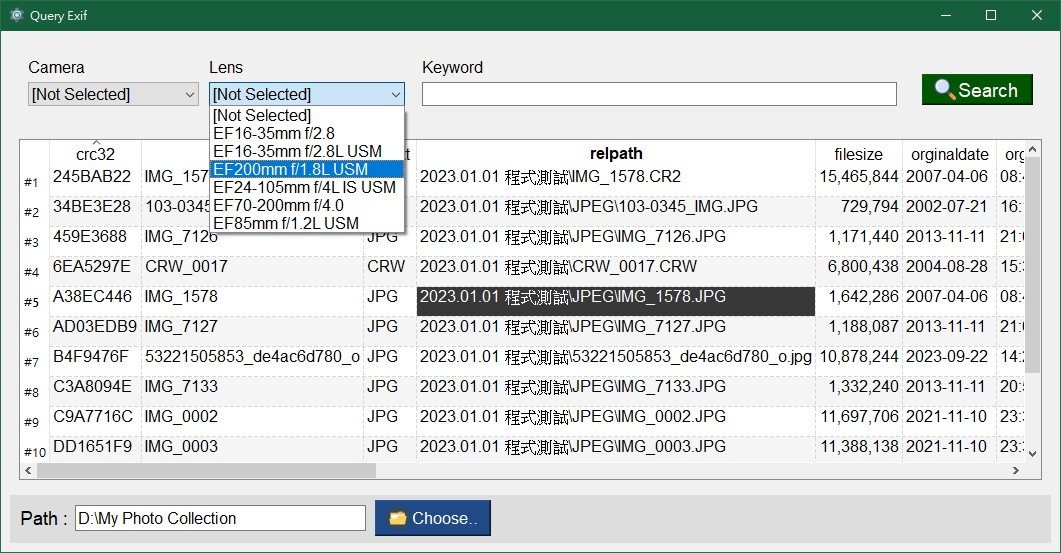
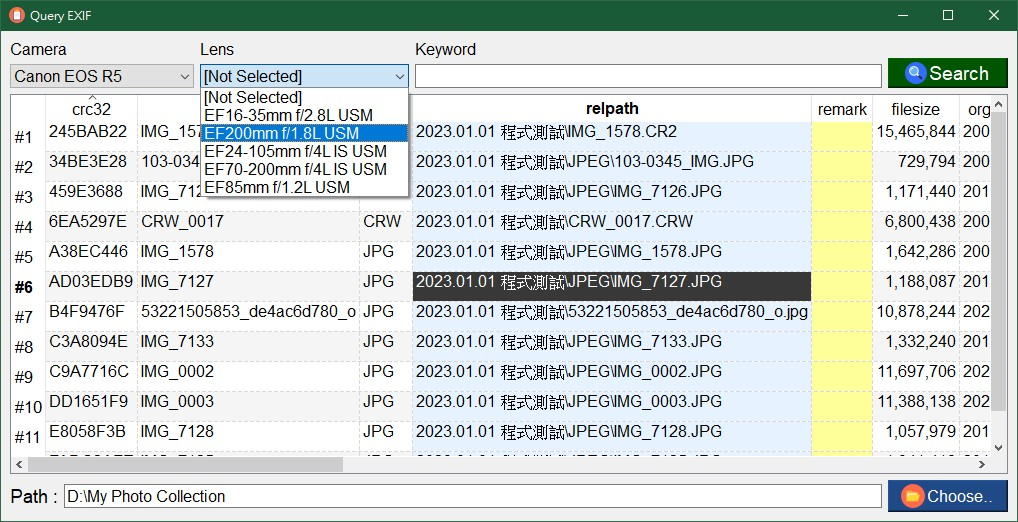
Query UI changed.

diff --git a/UIQuery.py b/UIQuery.py
@@ -14,88 +14,87 @@ from PyQt5 import QtCore, QtGui, QtWidgets
 class Ui_MainWindow(object):
     def setupUi(self, MainWindow):
         MainWindow.setObjectName("MainWindow")
-        MainWindow.resize(654, 262)
-        font = QtGui.QFont()
-        font.setFamily("Arial")
-        font.setPointSize(10)
-        MainWindow.setFont(font)
+        MainWindow.resize(616, 228)
+        MainWindow.setMinimumSize(QtCore.QSize(616, 228))
         icon = QtGui.QIcon()
         icon.addPixmap(QtGui.QPixmap(":/icon/icon/icon-clipboard.png"), QtGui.QIcon.Normal, QtGui.QIcon.Off)
         MainWindow.setWindowIcon(icon)
         self.centralwidget = QtWidgets.QWidget(MainWindow)
         self.centralwidget.setObjectName("centralwidget")
-        self.verticalLayout = QtWidgets.QVBoxLayout(self.centralwidget)
+        self.gridLayout = QtWidgets.QGridLayout(self.centralwidget)
+        self.gridLayout.setObjectName("gridLayout")
+        self.verticalLayout_5 = QtWidgets.QVBoxLayout()
+        self.verticalLayout_5.setObjectName("verticalLayout_5")
+        self.horizontalLayout = QtWidgets.QHBoxLayout()
+        self.horizontalLayout.setObjectName("horizontalLayout")
+        self.verticalLayout = QtWidgets.QVBoxLayout()
         self.verticalLayout.setObjectName("verticalLayout")
-        self.aTop = QtWidgets.QWidget(self.centralwidget)
-        self.aTop.setMinimumSize(QtCore.QSize(0, 0))
-        self.aTop.setMaximumSize(QtCore.QSize(16777215, 84))
+        self.lb_txt1 = QtWidgets.QLabel(self.centralwidget)
         font = QtGui.QFont()
         font.setFamily("Arial")
-        font.setPointSize(10)
-        self.aTop.setFont(font)
-        self.aTop.setObjectName("aTop")
-        self.horizontalLayout = QtWidgets.QHBoxLayout(self.aTop)
-        self.horizontalLayout.setObjectName("horizontalLayout")
-        self.top_1 = QtWidgets.QWidget(self.aTop)
-        self.top_1.setMinimumSize(QtCore.QSize(388, 0))
-        self.top_1.setMaximumSize(QtCore.QSize(388, 16777215))
-        self.top_1.setObjectName("top_1")
-        self.cb_camera = QtWidgets.QComboBox(self.top_1)
-        self.cb_camera.setGeometry(QtCore.QRect(9, 33, 171, 24))
+        font.setPointSize(12)
+        self.lb_txt1.setFont(font)
+        self.lb_txt1.setObjectName("lb_txt1")
+        self.verticalLayout.addWidget(self.lb_txt1)
+        self.cb_camera = QtWidgets.QComboBox(self.centralwidget)
+        self.cb_camera.setMinimumSize(QtCore.QSize(175, 0))
         font = QtGui.QFont()
         font.setFamily("Arial")
         font.setPointSize(12)
         self.cb_camera.setFont(font)
         self.cb_camera.setCursor(QtGui.QCursor(QtCore.Qt.PointingHandCursor))
         self.cb_camera.setObjectName("cb_camera")
-        self.lb_txt2 = QtWidgets.QLabel(self.top_1)
-        self.lb_txt2.setGeometry(QtCore.QRect(190, 9, 34, 18))
+        self.verticalLayout.addWidget(self.cb_camera)
+        self.horizontalLayout.addLayout(self.verticalLayout)
+        self.verticalLayout_2 = QtWidgets.QVBoxLayout()
+        self.verticalLayout_2.setObjectName("verticalLayout_2")
+        self.lb_txt2 = QtWidgets.QLabel(self.centralwidget)
         font = QtGui.QFont()
         font.setFamily("Arial")
         font.setPointSize(12)
         self.lb_txt2.setFont(font)
         self.lb_txt2.setObjectName("lb_txt2")
-        self.lb_txt1 = QtWidgets.QLabel(self.top_1)
-        self.lb_txt1.setGeometry(QtCore.QRect(9, 9, 57, 18))
-        font = QtGui.QFont()
-        font.setFamily("Arial")
-        font.setPointSize(12)
-        self.lb_txt1.setFont(font)
-        self.lb_txt1.setObjectName("lb_txt1")
-        self.cb_lens = QtWidgets.QComboBox(self.top_1)
-        self.cb_lens.setGeometry(QtCore.QRect(190, 33, 196, 24))
+        self.verticalLayout_2.addWidget(self.lb_txt2)
+        self.cb_lens = QtWidgets.QComboBox(self.centralwidget)
+        self.cb_lens.setMinimumSize(QtCore.QSize(200, 0))
         font = QtGui.QFont()
         font.setFamily("Arial")
         font.setPointSize(12)
         self.cb_lens.setFont(font)
         self.cb_lens.setCursor(QtGui.QCursor(QtCore.Qt.PointingHandCursor))
         self.cb_lens.setObjectName("cb_lens")
-        self.horizontalLayout.addWidget(self.top_1)
-        self.top_2 = QtWidgets.QWidget(self.aTop)
-        self.top_2.setObjectName("top_2")
-        self.verticalLayout_2 = QtWidgets.QVBoxLayout(self.top_2)
-        self.verticalLayout_2.setObjectName("verticalLayout_2")
-        self.lb_txt3 = QtWidgets.QLabel(self.top_2)
+        self.verticalLayout_2.addWidget(self.cb_lens)
+        self.horizontalLayout.addLayout(self.verticalLayout_2)
+        self.verticalLayout_3 = QtWidgets.QVBoxLayout()
+        self.verticalLayout_3.setObjectName("verticalLayout_3")
+        self.lb_txt3 = QtWidgets.QLabel(self.centralwidget)
         font = QtGui.QFont()
         font.setFamily("Arial")
         font.setPointSize(12)
         self.lb_txt3.setFont(font)
         self.lb_txt3.setObjectName("lb_txt3")
-        self.verticalLayout_2.addWidget(self.lb_txt3)
-        self.tb_Keyword = QtWidgets.QLineEdit(self.top_2)
+        self.verticalLayout_3.addWidget(self.lb_txt3)
+        self.tb_Keyword = QtWidgets.QLineEdit(self.centralwidget)
         font = QtGui.QFont()
         font.setFamily("Arial")
         font.setPointSize(12)
         self.tb_Keyword.setFont(font)
         self.tb_Keyword.setObjectName("tb_Keyword")
-        self.verticalLayout_2.addWidget(self.tb_Keyword)
-        self.horizontalLayout.addWidget(self.top_2)
-        self.top_3 = QtWidgets.QWidget(self.aTop)
-        self.top_3.setMinimumSize(QtCore.QSize(130, 0))
-        self.top_3.setMaximumSize(QtCore.QSize(130, 16777215))
-        self.top_3.setObjectName("top_3")
-        self.btnQuery = QtWidgets.QPushButton(self.top_3)
-        self.btnQuery.setGeometry(QtCore.QRect(10, 25, 111, 31))
+        self.verticalLayout_3.addWidget(self.tb_Keyword)
+        self.horizontalLayout.addLayout(self.verticalLayout_3)
+        self.verticalLayout_4 = QtWidgets.QVBoxLayout()
+        self.verticalLayout_4.setObjectName("verticalLayout_4")
+        self.label = QtWidgets.QLabel(self.centralwidget)
+        self.label.setMinimumSize(QtCore.QSize(0, 10))
+        font = QtGui.QFont()
+        font.setFamily("Arial")
+        font.setPointSize(6)
+        self.label.setFont(font)
+        self.label.setText("")
+        self.label.setObjectName("label")
+        self.verticalLayout_4.addWidget(self.label)
+        self.btnQuery = QtWidgets.QPushButton(self.centralwidget)
+        self.btnQuery.setMinimumSize(QtCore.QSize(120, 0))
         font = QtGui.QFont()
         font.setFamily("Arial")
         font.setPointSize(14)
@@ -108,14 +107,10 @@ class Ui_MainWindow(object):
         self.btnQuery.setIcon(icon1)
         self.btnQuery.setIconSize(QtCore.QSize(22, 22))
         self.btnQuery.setObjectName("btnQuery")
-        self.horizontalLayout.addWidget(self.top_3)
-        self.verticalLayout.addWidget(self.aTop)
-        self.bMiddle = QtWidgets.QWidget(self.centralwidget)
-        self.bMiddle.setMinimumSize(QtCore.QSize(0, 100))
-        self.bMiddle.setObjectName("bMiddle")
-        self.verticalLayout_3 = QtWidgets.QVBoxLayout(self.bMiddle)
-        self.verticalLayout_3.setObjectName("verticalLayout_3")
-        self.tbv_data = QtWidgets.QTableView(self.bMiddle)
+        self.verticalLayout_4.addWidget(self.btnQuery)
+        self.horizontalLayout.addLayout(self.verticalLayout_4)
+        self.verticalLayout_5.addLayout(self.horizontalLayout)
+        self.tbv_data = QtWidgets.QTableView(self.centralwidget)
         font = QtGui.QFont()
         font.setFamily("Arial")
         font.setPointSize(12)
@@ -131,14 +126,26 @@ class Ui_MainWindow(object):
         self.tbv_data.setSortingEnabled(True)
         self.tbv_data.setCornerButtonEnabled(True)
         self.tbv_data.setObjectName("tbv_data")
-        self.verticalLayout_3.addWidget(self.tbv_data)
-        self.verticalLayout.addWidget(self.bMiddle)
-        self.widget = QtWidgets.QWidget(self.centralwidget)
-        self.widget.setMinimumSize(QtCore.QSize(0, 48))
-        self.widget.setMaximumSize(QtCore.QSize(16777215, 48))
-        self.widget.setObjectName("widget")
-        self.btnChooseDirectory = QtWidgets.QPushButton(self.widget)
-        self.btnChooseDirectory.setGeometry(QtCore.QRect(365, 5, 116, 36))
+        self.verticalLayout_5.addWidget(self.tbv_data)
+        self.horizontalLayout_2 = QtWidgets.QHBoxLayout()
+        self.horizontalLayout_2.setObjectName("horizontalLayout_2")
+        self.lb1 = QtWidgets.QLabel(self.centralwidget)
+        font = QtGui.QFont()
+        font.setFamily("Arial")
+        font.setPointSize(14)
+        self.lb1.setFont(font)
+        self.lb1.setObjectName("lb1")
+        self.horizontalLayout_2.addWidget(self.lb1)
+        self.rootPath = QtWidgets.QLineEdit(self.centralwidget)
+        font = QtGui.QFont()
+        font.setFamily("Arial")
+        font.setPointSize(12)
+        self.rootPath.setFont(font)
+        self.rootPath.setReadOnly(True)
+        self.rootPath.setObjectName("rootPath")
+        self.horizontalLayout_2.addWidget(self.rootPath)
+        self.btnChooseDirectory = QtWidgets.QPushButton(self.centralwidget)
+        self.btnChooseDirectory.setMinimumSize(QtCore.QSize(120, 0))
         font = QtGui.QFont()
         font.setFamily("Arial")
         font.setPointSize(13)
@@ -151,22 +158,9 @@ class Ui_MainWindow(object):
         self.btnChooseDirectory.setIcon(icon2)
         self.btnChooseDirectory.setIconSize(QtCore.QSize(24, 24))
         self.btnChooseDirectory.setObjectName("btnChooseDirectory")
-        self.rootPath = QtWidgets.QLineEdit(self.widget)
-        self.rootPath.setGeometry(QtCore.QRect(65, 10, 291, 26))
-        font = QtGui.QFont()
-        font.setFamily("Arial")
-        font.setPointSize(12)
-        self.rootPath.setFont(font)
-        self.rootPath.setReadOnly(True)
-        self.rootPath.setObjectName("rootPath")
-        self.lb1 = QtWidgets.QLabel(self.widget)
-        self.lb1.setGeometry(QtCore.QRect(10, 10, 51, 26))
-        font = QtGui.QFont()
-        font.setFamily("Arial")
-        font.setPointSize(14)
-        self.lb1.setFont(font)
-        self.lb1.setObjectName("lb1")
-        self.verticalLayout.addWidget(self.widget)
+        self.horizontalLayout_2.addWidget(self.btnChooseDirectory)
+        self.verticalLayout_5.addLayout(self.horizontalLayout_2)
+        self.gridLayout.addLayout(self.verticalLayout_5, 0, 0, 1, 1)
         MainWindow.setCentralWidget(self.centralwidget)
 
         self.retranslateUi(MainWindow)
@@ -174,11 +168,11 @@ class Ui_MainWindow(object):
 
     def retranslateUi(self, MainWindow):
         _translate = QtCore.QCoreApplication.translate
-        MainWindow.setWindowTitle(_translate("MainWindow", "Query Exif"))
-        self.lb_txt2.setText(_translate("MainWindow", "Lens"))
+        MainWindow.setWindowTitle(_translate("MainWindow", "Query EXIF"))
         self.lb_txt1.setText(_translate("MainWindow", "Camera"))
+        self.lb_txt2.setText(_translate("MainWindow", "Lens"))
         self.lb_txt3.setText(_translate("MainWindow", "Keyword"))
         self.btnQuery.setText(_translate("MainWindow", "Search"))
-        self.btnChooseDirectory.setText(_translate("MainWindow", "Choose.."))
         self.lb1.setText(_translate("MainWindow", "Path :"))
+        self.btnChooseDirectory.setText(_translate("MainWindow", "Choose.."))
 import resources_rc
